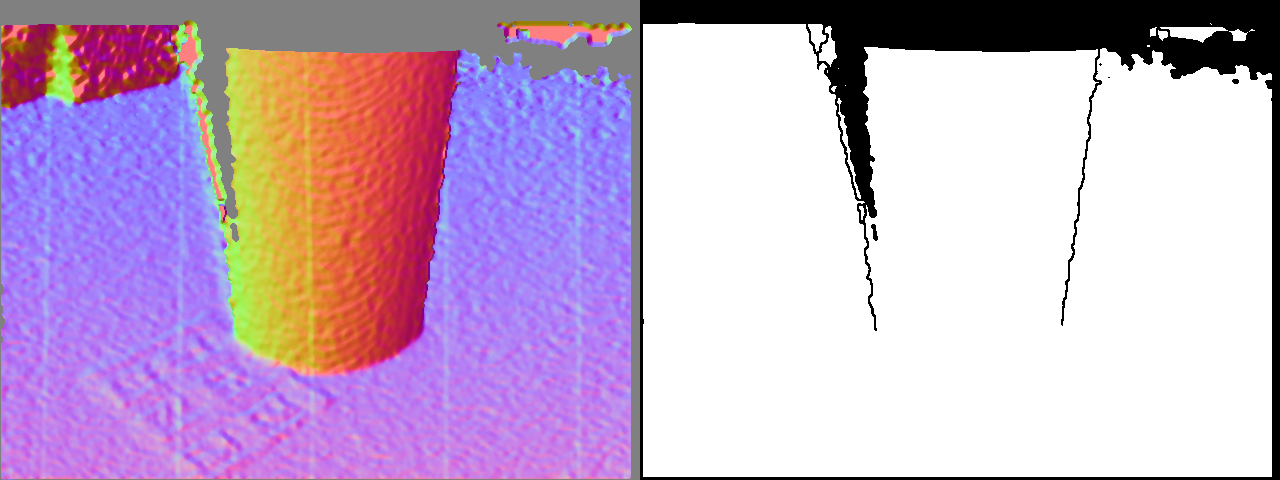
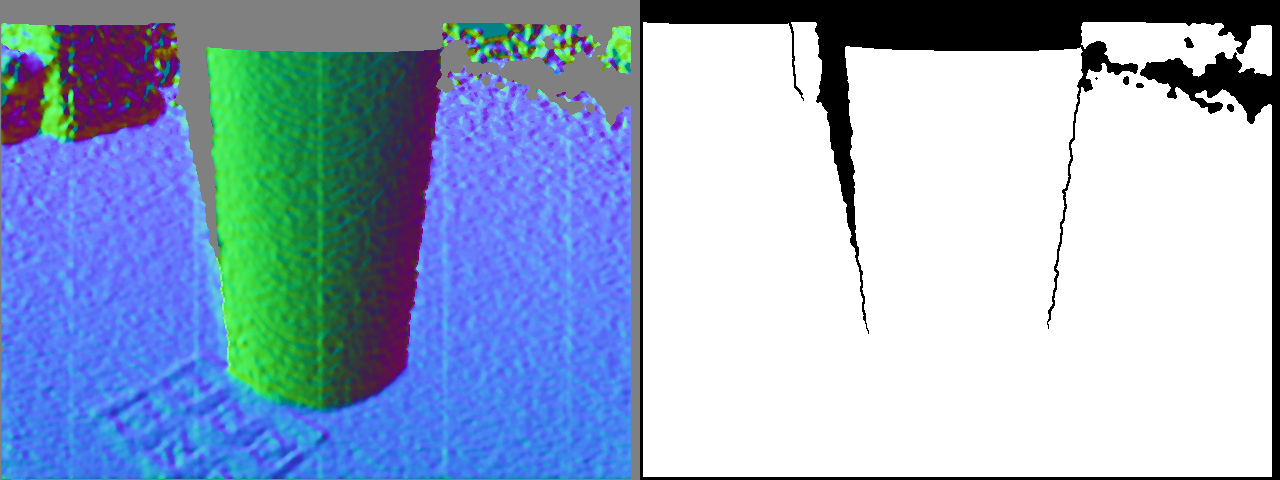
rebuilding site mar. 16 févr. 2021 13:25:02 CET

diff --git a/post/depth_map_segmentation/index.html b/post/depth_map_segmentation/index.html
@@ -59,7 +59,7 @@
   "headline": "Segmentation de depth map",
   "description" : "Dans ce post, j\u0026rsquo;implémente un système de segmentation de depth map en temps réel, basé sur l\u0026rsquo;analyse d\u0026rsquo;une normal map.\n",
   "inLanguage" : "fr",
-  "wordCount":  1189 ,
+  "wordCount":  1266 ,
   "datePublished" : "2021-02-15T00:00:00",
   "dateModified" : "2021-02-15T00:00:00",
   "image" : "https:\/\/BaptisteHudyma.github.io\/img\/github_profile.jpg",
@@ -262,7 +262,7 @@ if (!doNotTrack) {
   
   
   
-    &nbsp;|&nbsp;<i class="fas fa-book"></i>&nbsp;1189&nbsp;mots
+    &nbsp;|&nbsp;<i class="fas fa-book"></i>&nbsp;1266&nbsp;mots
   
   
   
@@ -311,7 +311,7 @@ Elle présente peu de bruit (donc visuellement un gradient de couleurs continue)
 <p>On peut calculer la valeur d&rsquo;une normale a un point <code>(x, y)</code> de la depth map avec le code c++ suivant :</p>
 <div class="highlight"><pre class="chroma"><code class="language-fallback" data-lang="fallback">float dzdx = ( depthMap.at&lt;float&gt;(x + 1, y) - depthMap.at&lt;float&gt;(x - 1, y) ) / 2.0;
 float dzdy = ( depthMap.at&lt;float&gt;(x, y + 1) - depthMap.at&lt;float&gt;(x, y + 1) ) / 2.0;
-normalMap.at&lt;Vec3f&gt;(x, y) = cv::normalize( cv::Vec3f(-dzdx, -dzdy, 1.0));
+normalMap.at&lt;Vec3f&gt;(x, y) = cv::normalize( cv::Vec3f(-dzdx, -dzdy, -1.0));
 </code></pre></div><p>On ignore bien sur les points sans donnée de profondeur.
 <img src="/static/depthMapSegm/normalMap.png" alt="Image: Depth map et normals">
 Dans l&rsquo;ordre: image RGB, depth map, normal map.</p>
@@ -325,12 +325,12 @@ J&rsquo;ai utilisé un opérateur adapté de [1], qui compare la convexité d&rs
 <div class="highlight"><pre class="chroma"><code class="language-fallback" data-lang="fallback">const cv::Vec3f&amp; centerNormal = normalMap.at&lt;cv::Vec3f&gt;(x, y); //normal au centre de la zone à analyser
 const float&amp; centerDepth = depthMap.at&lt;float&gt;(x, y);           //Valeur de la depth map au centre
 float minConcavity = 1;
-for(each neigbor) {
-    float concavity = 1;
-    if (depthMap.at&lt;float&gt;(xn, yn) - centerDepth &lt;= 0) {
-        concavity = centerNormal.dot( normalMap.at&lt;cv::Vec3f&gt;(xn, yn) );
+for( each neigbor ) {
+    float neightborDepth = depthMap.at&lt;float&gt;(xn, yn);
+    double vertexDot = centerVertex.dot(cv::Vec3f(xn - x, yn - y, neightborDepth - centerDepth));
+    if ( vertexDot &lt;= 0 ) {
+        minConcavity = std::min(minConcavity, centerNormal.dot( normalMap.at&lt;cv::Vec3f&gt;(xn, yn) );
     }
-    minConcavity = std::min(minConcavity, concavity);
 }
 thresholdedConcavity = minConcavity &gt; 0.94;
 </code></pre></div><p>J&rsquo;ai également ajouté a cela une méthode permettant de diminuer grandement le bruit des mesures, observée dans [2] et [5], non présentée dans le code ici.</p>
@@ -340,14 +340,14 @@ thresholdedConcavity = minConcavity &gt; 0.94;
 <h1 id="détection-de-discontinuités-de-surfaces">Détection de discontinuités de surfaces</h1>
 <p>Cette fois ci on cherche les discontinuités de profondeur.
 J&rsquo;ai utilisé le même opérateur que [1], qui compare la convexité d&rsquo;un point <code>(x, y)</code> avec un point voisin <code>(xn, yn)</code> :</p>
-<div class="highlight"><pre class="chroma"><code class="language-fallback" data-lang="fallback">const cv::Vec3f&amp; centerNormal = normalMap.at&lt;cv::Vec3f&gt;(x, y); //normal au centre de la zone à analyser
-const float&amp; centerDepth = depthMap.at&lt;float&gt;(x, y);           //Valeur de la depth map au centre
+<div class="highlight"><pre class="chroma"><code class="language-fallback" data-lang="fallback">const float&amp; centerDepth = depthMap.at&lt;float&gt;(x, y);           //Valeur de la depth map au centre
 float maxDiscontinuity = 0;
-for(each neigbor) {
-    float discontinuity = cv::norm( (depthMap.at&lt;float&gt;(xn, yn) - centerDepth) * centerNormal);
-    maxDiscontinuity = std::max(maxDiscontinuity, discontinuity);
+for( each neigbor ) {
+    float neightborDepth = depthMap.at&lt;float&gt;(xn, yn);
+    double vertexDot = centerVertex.dot(cv::Vec3f(xn - x, yn - y, neightborDepth - centerDepth));
+    maxDiscontinuity = std::max( maxDiscontinuity, abs(vertexDot) );
 }
-thresholdedDiscontinuity = maxDiscontinuity &lt; (0.0012 + 0.0019 * pow(centerDepth - 0.4, 2.0));  //noise model from [6]
+thresholdedDiscontinuity = maxDiscontinuity &lt; (0.12 + 0.19 * pow(centerDepth - 40, 2.0));  //noise model from [6]
 </code></pre></div><p>La dernière ligne montre le seuillage de la valeur de discontinuité par le modèle du bruit d&rsquo;une camera RGB-D (ici, une Kinect).
 <img src="/static/depthMapSegm/discontinuityMap.png" alt="Image: disontinuity map"></p>
 <p>On va alors combiner les informations de concavité et discontinuité pour obtenir la map de contours.</p>
@@ -359,11 +359,17 @@ thresholdedDiscontinuity = maxDiscontinuity &lt; (0.0012 + 0.0019 * pow(centerDe
 <p>Il suffit maintenant d&rsquo;appliquer une simple détection de composants connectés pour récupérer une première depth map segmentée.
 J&rsquo;ai également filtré les composants avec une aire sous un certain seuil afin de finir le nettoyage des données.</p>
 <p>Pour optimiser le résultat final, j&rsquo;ai implémenté tout ce système avec un paramètre permettant de régler l&rsquo;échelle de traitement.
-Effectuer le traitement sur la depth map totale (640x480 pixels) serait trop lourd, et elle est donc réduite par un facteur d&rsquo;échelle (0.45 pour un rapport de performance/précision optimal selon mes tests).</p>
-<p>Dans l&rsquo;ordre: détection de plans et cylindres par une version personnalisée de CAPE, segmentation présentée ici (scale=1)
-<img src="/static/depthMapSegm/segmentedRGB.png" alt="Image: segmented Depth Map"></p>
-<p>La comparaison de ce système avec CAPE est simplement a titre indicatif.
-Ici, CAPE est meilleurs car la scène est composée de plans et cylindres, mais on peut s&rsquo;attendre a ce que la segmentation présentée dans ce blog soit plus apte à gérer des objets de forme quelconques.</p>
+Effectuer le traitement sur la depth map totale (640x480 pixels) serait trop lourd, et elle est donc réduite par un facteur d&rsquo;échelle (0.45 pour un rapport de performance/précision optimale selon mes tests).</p>
+<p>Voila le résultat de segmentation final a coté de l&rsquo;image RGB originelle.
+<img src="/static/depthMapSegm/segmentedDepthMap.png" alt="Image: segmented rgb"></p>
+<h2 id="comparaison-qualitative">Comparaison qualitative</h2>
+<p>A titre d&rsquo;indication, voici une comparaison de la segmentation obtenue avec CAPE, un système capable de détecter uniquement les plans et cylindres.</p>
+<p><img src="/static/depthMapSegm/segmentedRGB.png" alt="Image: segmented rgb comparaison">
+A gauche, segmentation avec CAPE, a droite la méthode de segmentation présentée ici (scale=1).</p>
+<p>Ici, CAPE donne de meilleurs résultats car la scène est composée majoritairement de plans et cylindres, mais on peut s&rsquo;attendre a ce que la segmentation présentée dans ce blog soit plus apte à gérer des objets de forme quelconques.
+Cette méthode de segmentation permet ici de récupérer des surfaces non segmentées par CAPE, notamment dans le background.
+Elle demande également plus de ressources que CAPE, mais est facilement parallélisable.</p>
+<p>En somme, ces deux méthodes peuvent être fusionnées pour tirer parti des avantages de chacune.</p>
 <p>Pour de meilleures reconstructions de masques, il manque une gestion d&rsquo;une carte en mémoire, ce qui transforme le système en SLAM comme dans [1].</p>
 <h1 id="bibliographie">Bibliographie:</h1>
 <ul>

diff --git a/index.html b/index.html
@@ -272,7 +272,7 @@ if (!doNotTrack) {
   
   
   
-    &nbsp;|&nbsp;<i class="fas fa-book"></i>&nbsp;1189&nbsp;mots
+    &nbsp;|&nbsp;<i class="fas fa-book"></i>&nbsp;1266&nbsp;mots
   
   
   

diff --git a/post/index.html b/post/index.html
@@ -250,7 +250,7 @@ if (!doNotTrack) {
   
   
   
-    &nbsp;|&nbsp;<i class="fas fa-book"></i>&nbsp;1189&nbsp;mots
+    &nbsp;|&nbsp;<i class="fas fa-book"></i>&nbsp;1266&nbsp;mots
   
   
   

diff --git a/tags/computer-vision/index.html b/tags/computer-vision/index.html
@@ -237,7 +237,7 @@ if (!doNotTrack) {
   
   
   
-    &nbsp;|&nbsp;<i class="fas fa-book"></i>&nbsp;1189&nbsp;mots
+    &nbsp;|&nbsp;<i class="fas fa-book"></i>&nbsp;1266&nbsp;mots
   
   
   

diff --git a/tags/cpp/index.html b/tags/cpp/index.html
@@ -237,7 +237,7 @@ if (!doNotTrack) {
   
   
   
-    &nbsp;|&nbsp;<i class="fas fa-book"></i>&nbsp;1189&nbsp;mots
+    &nbsp;|&nbsp;<i class="fas fa-book"></i>&nbsp;1266&nbsp;mots
   
   
   

diff --git a/tags/depth-map/index.html b/tags/depth-map/index.html
@@ -237,7 +237,7 @@ if (!doNotTrack) {
   
   
   
-    &nbsp;|&nbsp;<i class="fas fa-book"></i>&nbsp;1189&nbsp;mots
+    &nbsp;|&nbsp;<i class="fas fa-book"></i>&nbsp;1266&nbsp;mots
   
   
   

diff --git a/tags/opencv/index.html b/tags/opencv/index.html
@@ -237,7 +237,7 @@ if (!doNotTrack) {
   
   
   
-    &nbsp;|&nbsp;<i class="fas fa-book"></i>&nbsp;1189&nbsp;mots
+    &nbsp;|&nbsp;<i class="fas fa-book"></i>&nbsp;1266&nbsp;mots
   
   
   
